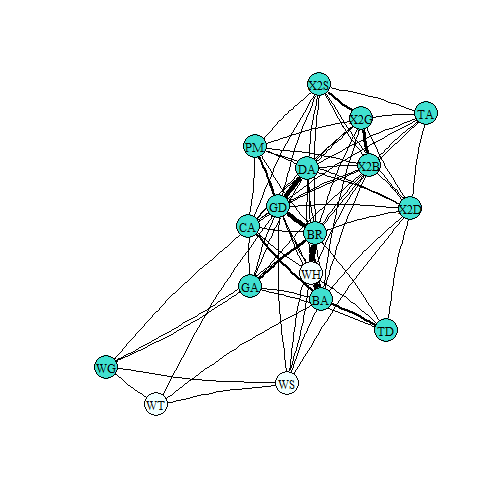
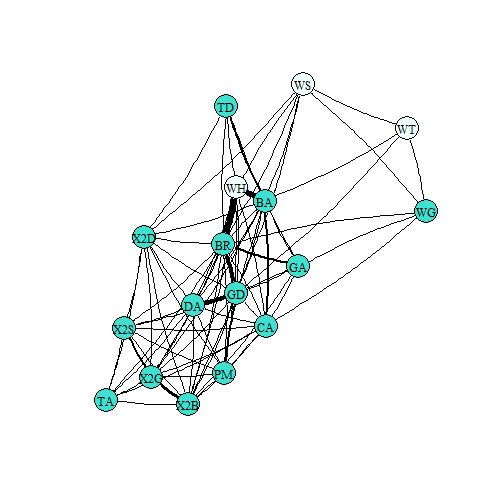
pak

diff --git a/public/materials/Slides/02_getting_started.html b/public/materials/Slides/02_getting_started.html
@@ -30,7 +30,7 @@ class: center, middle, inverse, title-slide
 ## Why Do We Need Network Analysis?
 Suppose you walked into a dining room that hosts a luncheon at a conference you are currently attending. What table would you sit at?
 
-&lt;img src="images/seating_chart.jpg" width="400px" style="display: block; margin: auto;" /&gt;
+&lt;img src="images/seating_chart.jpg" alt="" width="400px" style="display: block; margin: auto;" /&gt;
 ---
 
 ## Today's Class
@@ -53,7 +53,7 @@ class: inverse, middle, center
 
 A set of **nodes** and **relation(s)** defined on them
 
-&lt;img src="images/madmen.png" width="400px" style="display: block; margin: auto;" /&gt;
+&lt;img src="images/madmen.png" alt="" width="400px" style="display: block; margin: auto;" /&gt;
 ---
 
 ## Defining Network Features &amp; Measurements: What's a node?
@@ -119,7 +119,7 @@ Early Puzzles: Individuals inside social groups
 - Example: In 1932 there was a pandemic of runaways at Brooklyn public and private schools: within two weeks 14 girls ran away, which was 30 times more than the average number
  - Moreno's finding: position in network predicted whether the girl would run away
 
-&lt;img src="images/moreno.png" width="400px" style="display: block; margin: auto;" /&gt;
+&lt;img src="images/moreno.png" alt="" width="400px" style="display: block; margin: auto;" /&gt;
 ---
 
 ## Early study of network analysis
@@ -154,7 +154,7 @@ Kathleen Carley, Another Early Puzzle (1980-90s): Group Stability and Organizati
 How can we capture these relationships? &lt;span style="color:MediumAquamarine"&gt; *The Sociomatrix*. &lt;/span&gt;
 example: &lt;span style="color:Purple"&gt; *PONIES* &lt;/span&gt;
 
-&lt;img src="images/horserank1.jpg" width="600px" style="display: block; margin: auto;" /&gt;
+&lt;img src="images/horserank1.jpg" alt="" width="600px" style="display: block; margin: auto;" /&gt;
 
 *Ranks and Relationships in Highland Ponies and Highland Cows* by **Brock et. al 1976**
 
@@ -163,13 +163,13 @@ example: &lt;span style="color:Purple"&gt; *PONIES* &lt;/span&gt;
 ## Sociomatrix: Pony threats
 &lt;span style="color:DarkCyan"&gt; Directed, targeted behavior &lt;/span&gt;
 
-&lt;img src="images/ponies1.png" width="600px" style="display: block; margin: auto;" /&gt;
+&lt;img src="images/ponies1.png" alt="" width="600px" style="display: block; margin: auto;" /&gt;
 
 ---
 ## Sociomatrix: Pony grooming
 &lt;span style="color:DarkCyan"&gt; Undirected, mutual behavior &lt;/span&gt;
 
-&lt;img src="images/ponies2.png" width="500px" style="display: block; margin: auto;" /&gt;
+&lt;img src="images/ponies2.png" alt="" width="500px" style="display: block; margin: auto;" /&gt;
 ---
 ## How might we look at this in R?
 
@@ -177,23 +177,24 @@ example: &lt;span style="color:Purple"&gt; *PONIES* &lt;/span&gt;
 
 - To load our class package (you have to do this each time you need to access the data):
 
-```r
+``` r
 library(devtools)
-install_github("ochyzh/networkdata")
+pak::pak("ochyzh/networkdata")
 library(networkdata)
 ```
 
 - Now, load the specific dataset:
 
-```r
+``` r
 data(highlandPonies)
 ponies&lt;-as.matrix(highlandPonies[1:17, 2:18])
+ponies[is.na(ponies)] &lt;- 0 # Replace NAs with 0
 ```
 
 Create a graph object:
 
 
-```r
+``` r
 library(igraph)
 pGraph &lt;- graph_from_adjacency_matrix(ponies, weighted=TRUE, mode="undirected",
                                       diag=FALSE)
@@ -203,7 +204,7 @@ pGraph &lt;- graph_from_adjacency_matrix(ponies, weighted=TRUE, mode="undirected
 ## Plot using the *igraph* package:
 
 
-```r
+``` r
 V(pGraph)$color &lt;- ifelse(V(pGraph)$name %in% c("WT", "WH", "WS"), "azure1", "turquoise")
 ponyPlot&lt;- plot(pGraph,
      edge.arrow.size=.2,
@@ -218,7 +219,7 @@ ponyPlot&lt;- plot(pGraph,
 
 ## Mutually supportive behavior between ponies
 
-&lt;img src="images/ponies.png" width="500px" style="display: block; margin: auto;" /&gt;
+&lt;img src="images/ponies.png" alt="" width="500px" style="display: block; margin: auto;" /&gt;
 
 ---
 ## Other Examples of Neworks
@@ -246,12 +247,12 @@ Step 1: A simple Data set
 
 Step 2: A simple, undirected, sociomatrix
 
-&lt;img src="images/sociomatrix0.jpeg" width="800px" style="display: block; margin: auto;" /&gt;
+&lt;img src="images/sociomatrix0.jpeg" alt="" width="800px" style="display: block; margin: auto;" /&gt;
 
 ---
 ## Summary: data processing
 
-&lt;img src="images/df_adj_net3.png" width="800px" style="display: block; margin: auto;" /&gt;
+&lt;img src="images/df_adj_net3.png" alt="" width="800px" style="display: block; margin: auto;" /&gt;
 
 ---
 ## Networks in Political Science
@@ -301,7 +302,7 @@ Step 2: A simple, undirected, sociomatrix
 
 ---
 ## This image again (or why logits are not who you think they are)
-&lt;img src="images/df_adj_net3.png" width="800px" style="display: block; margin: auto;" /&gt;
+&lt;img src="images/df_adj_net3.png" alt="" width="800px" style="display: block; margin: auto;" /&gt;
 
 ---
 ## Networks in Political Science
@@ -326,27 +327,27 @@ Today: Systems (Dyads --&gt; Networks)
 ---
 ## Adolescent romantic and sexual networks
 
-&lt;img src="images/jefferson.jpg" width="600px" style="display: block; margin: auto;" /&gt;
+&lt;img src="images/jefferson.jpg" alt="" width="600px" style="display: block; margin: auto;" /&gt;
 **Bearman, Moody and Stovel**
 ---
 ## Adolescent Social Structure by **Jim Moody**
-&lt;img src="images/schoolGrade.png" width="600px" style="display: block; margin: auto;" /&gt;
+&lt;img src="images/schoolGrade.png" alt="" width="600px" style="display: block; margin: auto;" /&gt;
 
 ---
 ## Adolescent Social Structure by **Jim Moody**
-&lt;img src="images/schoolRace.png" width="600px" style="display: block; margin: auto;" /&gt;
+&lt;img src="images/schoolRace.png" alt="" width="600px" style="display: block; margin: auto;" /&gt;
 ---
 
 ## Networks of Violence in Nigeria
 
-&lt;img src="images/nigeria_postBK.png" width="700px" style="display: block; margin: auto;" /&gt;
+&lt;img src="images/nigeria_postBK.png" alt="" width="700px" style="display: block; margin: auto;" /&gt;
 
 *Networks of Violence: Predicting Conflict in Nigeria* by **Dorff, Gallop, &amp; Minhas**
 ---
 
 ## Structures do hide in hairballs ...
 
-&lt;img src="images/icews_matlconf.png" width="700px" style="display: block; margin: auto;" /&gt;
+&lt;img src="images/icews_matlconf.png" alt="" width="700px" style="display: block; margin: auto;" /&gt;
 
 *International Conflict Event Warning System (ICEWS): Material Conflict* by **Minhas, Hoff, &amp; Ward**
 ---
@@ -369,7 +370,7 @@ Useful terminology for working in *R*:
 How do we restructure a dyadic data frame such as alliances from COW into a matrix format?
 
 
-```r
+``` r
 data(defAlly)
 head(defAlly)
 ```
@@ -416,8 +417,6 @@ Can you transform `defAlly` into a matrix form as shown below?
 ```
 
 
-(Hint the `spread` function from the `tidyr` package might be useful ... also easy to do with a for loop)
-
 
 ---
 ## What We've Learned So Far
@@ -431,9 +430,9 @@ Can you transform `defAlly` into a matrix form as shown below?
 <style data-target="print-only">@media screen {.remark-slide-container{display:block;}.remark-slide-scaler{box-shadow:none;}}</style>
 <script src="https://remarkjs.com/downloads/remark-latest.min.js"></script>
 <script>var slideshow = remark.create({
-"highlightStyle": "github",
-"highlightLines": true,
-"countIncrementalSlides": false
+  "highlightStyle": "github",
+  "highlightLines": true,
+  "countIncrementalSlides": false
 });
 if (window.HTMLWidgets) slideshow.on('afterShowSlide', function (slide) {
   window.dispatchEvent(new Event('resize'));
